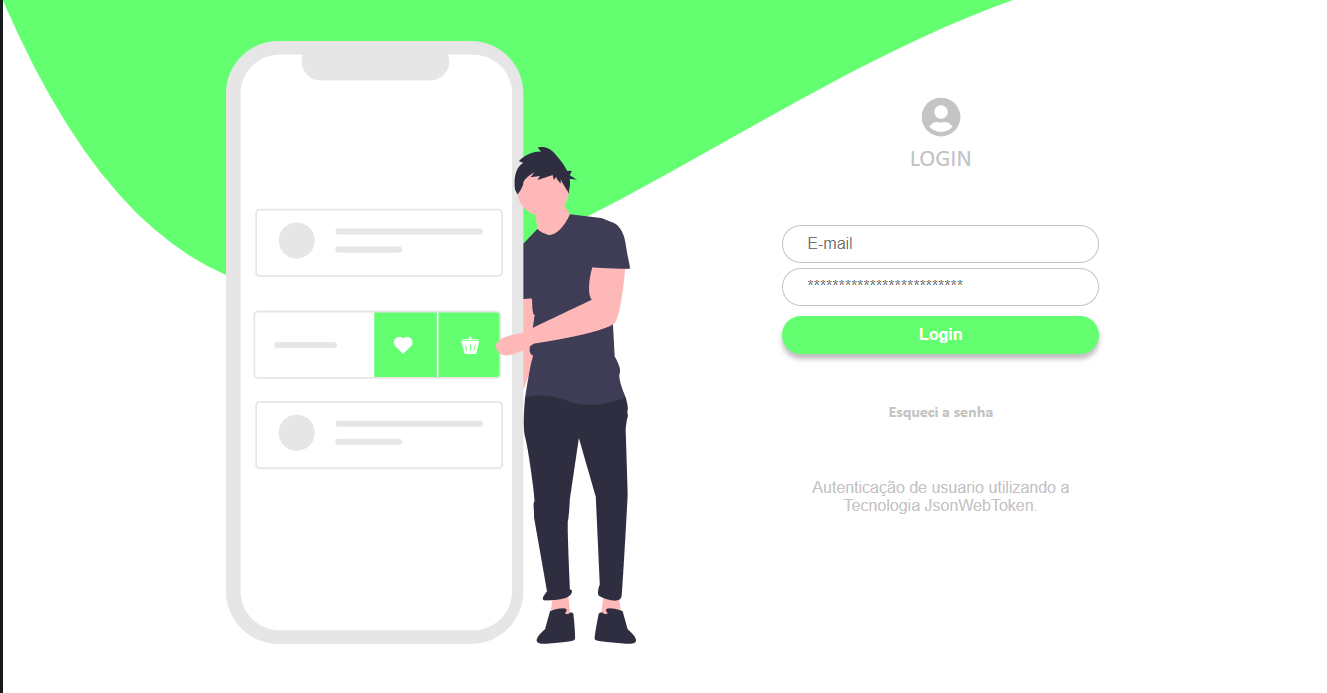
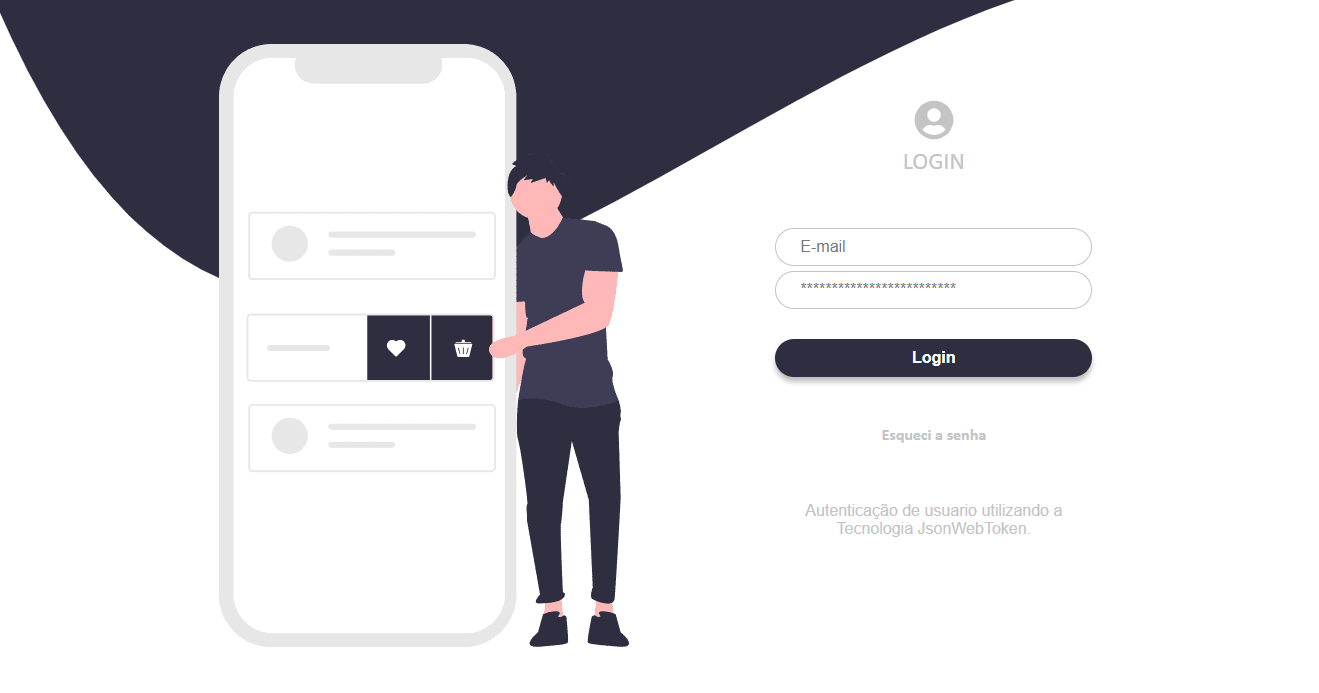
Alterando o estilo da aplicação

diff --git a/public/index.html b/public/index.html
@@ -1,1 +1,1 @@
[1 lines of base64/hex data omitted]
+<!DOCTYPE html><html><head><meta charSet="utf-8"/><meta http-equiv="x-ua-compatible" content="ie=edge"/><meta name="viewport" content="width=device-width, initial-scale=1, shrink-to-fit=no"/><meta name="note" content="environment=development"/><script src="/socket.io/socket.io.js"></script></head><body><div id="___gatsby"></div><script src="/commons.js"></script></body></html>

diff --git a/src/pages/style/index.js b/src/pages/style/index.js
@@ -8,7 +8,7 @@ export const Flex12 = styled.div`
 	width: 100%;
 	height: 100vh;
 	background-image: url(${fundo});
-	background-color: #63FF70;
+	background-color: #2F2E41;
 	background-size: cover;
 	position: relative;
 	overflow: hidden;
@@ -141,7 +141,7 @@ export const BtnLogin = styled.button`
 	use-select: none;
 	color: #FFFFFF;
 	line-height: 1.5;
-	background-color: #63FF70;	
+	background-color: #2F2E41;	
 	cursor: pointer;
 	box-shadow: 0px 5px 5px rgb(0, 0, 0, 0.25);
 	transition: .2s ease-in-out;
@@ -149,9 +149,9 @@ export const BtnLogin = styled.button`
 
 	&:hover {
 		opacity: .8;
-		color: #63FF70;
+		color: #2F2E41;
 		background-color: #FFFFFF;
-		border: 1px solid #63FF70;
+		border: 1px solid #2F2E41;
 		box-shadow: 0px 0px 0px rgb(0, 0, 0, 0.25);
 	}
 
@@ -198,7 +198,7 @@ export const BtnSignIn = styled.button`
 
 	&:hover {
 		background-color: #FFFFFF;
-		color: #63FF70;
+		color: #2F2E41;
 	}
 `;
 
@@ -243,7 +243,7 @@ export const TableUsersInfo = styled.table`
 `;
 
 export const TableUsersTitle = styled.tr`
-	background-color: #3C4043;
+	background-color: #3A4C5A;
 	color: #FFFFFF;
 	height: 48px;
 

diff --git a/src/pages/components/Nav/index.js b/src/pages/components/Nav/index.js
@@ -15,7 +15,7 @@ const Nav = () => {
 	return (
 		
 		<Grid12 style={{
-			backgroundColor:'#63FF70',
+			backgroundColor:'#2F2E41',
 			height: '71px',
 			boxShadow: '0px 4px 4px rgba(0, 0, 0, 0.25)'
 		}}>
